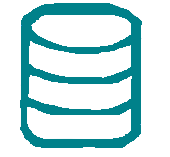
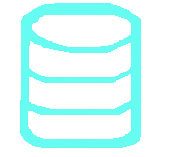
Finished front page and color scheme

Changed region(s): [[0.1176, 0.0, 0.8529, 0.9427]]

diff --git a/src/Components/Intro/Intro.css b/src/Components/Intro/Intro.css
@@ -3,11 +3,12 @@
     /* border-bottom: 5px solid #404b69; */
     display:flex;
     /* flex-direction: column; */
-    height: 90vh;
-    background-image: url("./Images/desk3.jpg");
+    height: 86vh;
+    background-color: #0b0c10;
+    background-image: url("./Images/seoul2.jpg");
     background-size: contain;
     background-repeat: no-repeat;
-    font-family: "Lucida Console", Courier, monospace;
+    font-family: "Helvetica", Courier, monospace;
 }
 
 
@@ -16,7 +17,7 @@
     flex-direction: column;
     justify-content: flex-start;
     align-items:center;
-    width: 100%;
+    width: 40%;
     padding-top: 3%;
 }
 
@@ -30,25 +31,28 @@
 
 
 .Name{
-    font-size: 3.6rem;
+    font-size: 3.4rem;
     width: 100%;
-    color:#686d76;
-    padding-top: 1%;
+    color:#1f2833;
+    padding-top: 12%;
     margin: 0;
     padding-right: 5%;
     padding-left: 5%;
 }
 .Title{
     font-size: 3rem;
+    font-weight:bold;
     width: 100%;
-    color:#686d76;
-    padding-top: 5%;
+    color:#1f2833;
+    padding-top: 14%;
+    padding-left: 5%;
     margin: 0;
 }
 
 .introButton{
-    width: 100%;
-    padding-top: 2%;
+    width: 40%;
+    padding-top: 5%;
+    margin-left: 18%;
 }
 .introBtn{
     width: 20%;

diff --git a/src/Components/Intro/Intro.js b/src/Components/Intro/Intro.js
@@ -10,14 +10,15 @@ const Intro = () => {
             <div className="IntroInfo"> 
                 <h1 className="Name">Forrest Bingham</h1>
                 <h1 className="Title">Full-Stack Web Developer</h1>
-                <FrontEnd/>
-                <div className="introButton">
-                    <Link to="/projects">
-                    <button className="introBtn">Check out my Portfolio</button>
-                    </Link>
-                </div>
             </div>
-            <div className="bgIMG"/>
+            <div className="introButton">
+                <FrontEnd/>
+                <Link to="/projects">
+                <button className="introBtn">Check out my Portfolio</button>
+                </Link>
+            </div>
+            
+            {/* <div className="bgIMG"/> */}
                  
             
         </div>

diff --git a/src/Components/Skills/FrontEnd.js b/src/Components/Skills/FrontEnd.js
@@ -18,7 +18,7 @@ const FrontEnd = () => {
 
     return (
         // <IconContext.Provider value={{ style: {fontSize: '30px', color: "rgb(0, 123, 255)", }}}>
-        <IconContext.Provider value={{ style: {fontSize: '30px', color: "rgb(0, 129, 138)", }}}> 
+        <IconContext.Provider value={{ style: {fontSize: '30px', color: "#66fcf1", }}}> 
         <div className="FrontEndList">
         <div className="Fundamentals">
             <div className="icon">

diff --git a/src/App.css b/src/App.css
@@ -1,7 +1,6 @@
 .App {
   text-align: center;
-  font-family: "Lucida Console", Courier, monospace;
-  /* font-family: 'Rubik', sans-serif; */
+  font-family: "Helvetica", Courier, monospace;
   background-color: #dbedf3;
   /* background-color: white; */
 }

diff --git a/src/Components/Skills/Skills.css b/src/Components/Skills/Skills.css
@@ -65,7 +65,7 @@
     align-items: center;
     font-size: 1.3rem;
     margin-right: 5%;
-    color:#686d76;
+    color:#1f2833;
 }
 .icon:hover{
     transform: translateY(-8px);

diff --git a/src/Components/Navbar/Navigation.css b/src/Components/Navbar/Navigation.css
@@ -1,5 +1,5 @@
 .navbar{
-    background-color: #686d76;
+    background-color: #0b0c10;
     height: 10vh;
     display: flex;
     justify-content: center;
